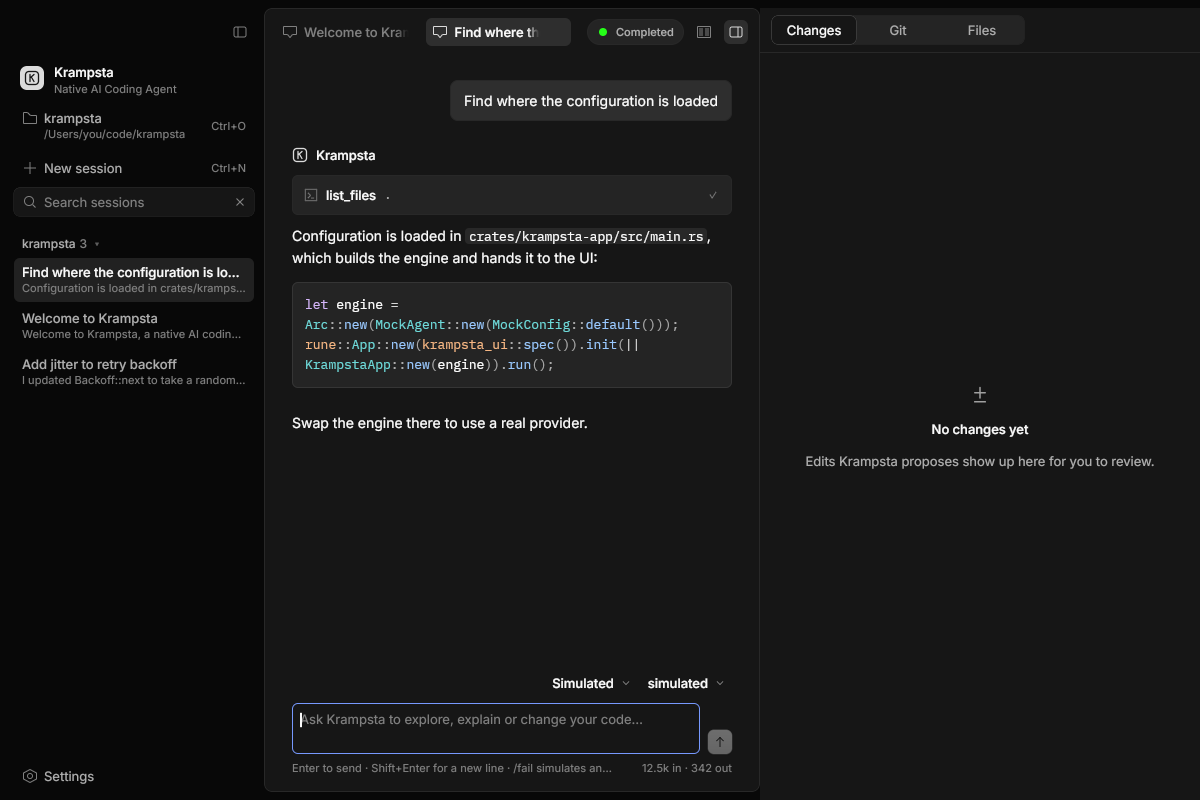
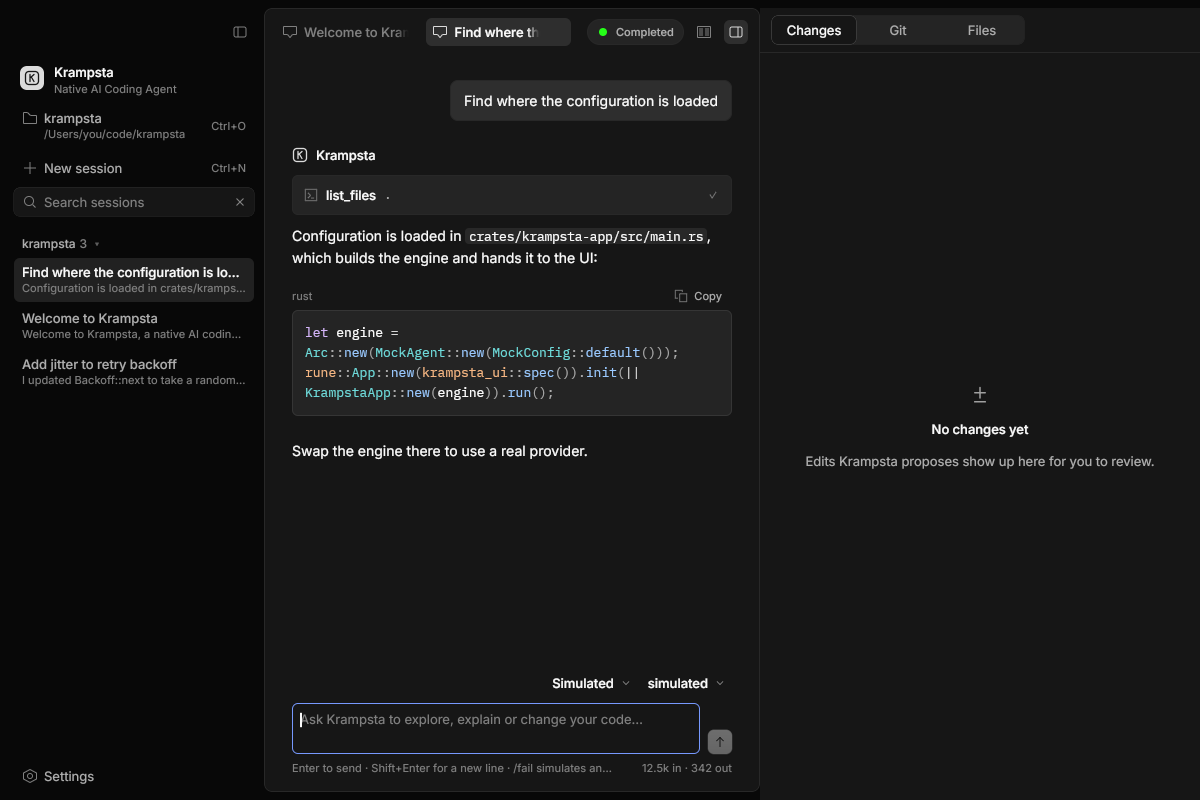
Copy a code block from a reply with one click
Each code block in the agent's replies gets a strip above it (through
rune-kit's Markdown::code_frame) with its language and a Copy button. A
click puts the block's code on the clipboard, as written, and the button
says "Copied" until another block is copied or a message is sent. A block
still streaming in already has its strip, without the button, so nothing
jumps when it ends. Only replies with a fence pay for the extra frame.

New code-copied scene; the stills with a code block show the strip.

Changed region(s): [[0.2467, 0.375, 0.555, 0.5938], [0.555, 0.3438, 0.6167, 0.375]]

diff --git a/crates/krampsta-ui/tests/code_copy.rs b/crates/krampsta-ui/tests/code_copy.rs
@@ -1,0 +1,51 @@
+#![allow(clippy::unwrap_used, clippy::expect_used)]
+
+//! The Copy button on a reply's code block: a click puts the block's code on the clipboard and
+//! the button says so.
+
+use std::sync::Arc;
+
+use krampsta_agent::{MockCatalog, MockConfig};
+use krampsta_core::{MessageRole, Session, SessionId};
+use krampsta_ui::{KrampstaApp, app, keys};
+use rune::{Env, Runtime};
+
+fn settle(rt: &mut Runtime<KrampstaApp>) {
+    for _ in 0..60 {
+        rt.frame(1.0 / 60.0);
+    }
+}
+
+#[test]
+fn a_click_copies_the_blocks_code_and_the_button_says_so() {
+    let mut state = KrampstaApp::new(Arc::new(MockCatalog::new(MockConfig::instant())));
+    let mut session = Session::with_title(SessionId(7), "Show me main");
+    session.push_message(MessageRole::User, "Show me main");
+    let reply = session.push_message(
+        MessageRole::Assistant,
+        "Here it is:\n\n```rust\nfn main() {\n    println!(\"hi\");\n}\n```\n\nAnd the test:\n\n```sh\ncargo test\n```\n",
+    );
+    state.sessions.insert(0, session);
+    state.select(SessionId(7));
+    let mut rt = Runtime::new(state, app::view, (1200.0, 800.0), Env::new(true, 1.0));
+    let clipboard = rune::clipboard::memory();
+    rt.use_clipboard(&clipboard);
+    settle(&mut rt);
+    assert!(rt.find(&keys::code_copy(reply, 0)).is_some() && rt.find(&keys::code_copy(reply, 1)).is_some());
+
+    let (x, y) = rt.find(&keys::code_copy(reply, 1)).unwrap();
+    rt.pointer_down(x, y);
+    rt.pointer_up(x, y);
+    settle(&mut rt);
+    let copied = clipboard.text().map(|t| t.to_string()).unwrap_or_default();
+    assert_eq!(copied.trim_end(), "cargo test", "the second block's code, as written");
+    assert_eq!(rt.state.copied_code, Some((reply, 1)), "its button says Copied");
+
+    let (x, y) = rt.find(&keys::code_copy(reply, 0)).unwrap();
+    rt.pointer_down(x, y);
+    rt.pointer_up(x, y);
+    settle(&mut rt);
+    let copied = clipboard.text().map(|t| t.to_string()).unwrap_or_default();
+    assert!(copied.starts_with("fn main() {") && copied.contains("println!(\"hi\");"), "{copied}");
+    assert_eq!(rt.state.copied_code, Some((reply, 0)), "only the last one says so");
+}

diff --git a/crates/krampsta-ui/src/components/code_copy.rs b/crates/krampsta-ui/src/components/code_copy.rs
@@ -1,0 +1,43 @@
+//! A Copy button on each code block of the agent's replies (through rune-kit's
+//! `Markdown::code_frame`): a strip above the block with its language and the button. The
+//! button copies the block's code as written and says "Copied" until another block is copied
+//! or a message is sent. A block still arriving gets no button: half a block isn't worth copying.
+
+use krampsta_core::MessageId;
+use rune::{El, Tx, col, row, text};
+use rune_kit::markdown::CodeFrame;
+use rune_kit::{Button, ButtonVariant, ControlSize, Kit};
+
+use crate::components::icons;
+use crate::keys;
+use crate::state::KrampstaApp;
+
+impl KrampstaApp {
+    /// Copies block `index` of `message` (its code is `code`) and marks it copied.
+    pub fn copy_code(&mut self, message: MessageId, index: usize, code: &str, tx: &mut Tx) {
+        tx.copy(code.to_owned());
+        self.copied_code = Some((message, index));
+    }
+}
+
+/// `card` (a code block) with its strip. `copied`: the block of this message copied last, if any.
+pub fn frame(card: El, c: &CodeFrame<'_>, message: MessageId, copied: Option<usize>, k: &Kit) -> El {
+    let language = text(c.language.unwrap_or_default().to_owned()).font(k.ty.small).color(k.c.text_faint);
+    let strip = row().w_full().h(28.0).items_center().justify_between().child(language);
+    // A block still arriving has its strip already (nothing jumps when it ends), but no button.
+    if c.open {
+        return col().w_full().child(strip).child(card);
+    }
+    let index = c.index;
+    let done = copied == Some(index);
+    let code = c.source.to_owned();
+    let button = Button::new(if done { "Copied" } else { "Copy" })
+        .icon(if done { &icons::CHECK } else { &icons::COPY })
+        .variant(ButtonVariant::GhostMuted)
+        .control_size(ControlSize::Small)
+        .on_press_tx(move |s: &mut KrampstaApp, tx: &mut Tx| s.copy_code(message, index, &code, tx))
+        .build(k)
+        .key(keys::code_copy(message, index))
+        .label("Copy the code");
+    col().w_full().child(strip.child(button)).child(card)
+}

diff --git a/crates/krampsta-ui/src/components/message.rs b/crates/krampsta-ui/src/components/message.rs
@@ -5,7 +5,7 @@ use krampsta_core::{Message, MessageRole, SessionId};
 use rune::{El, col, el, icon, row, text};
 use rune_kit::{Kit, Markdown, Spinner};
 
-use crate::components::{icons, reasoning, shimmer, tool_card};
+use crate::components::{code_copy, icons, reasoning, shimmer, tool_card};
 use crate::images::MessageImage;
 use crate::keys;
 use crate::state::KrampstaApp;
@@ -86,7 +86,13 @@ fn assistant(s: &KrampstaApp, session: SessionId, m: &Message, streaming: bool, 
         }
     } else {
         // Each word fades in as it comes out; a finished message mounts whole.
-        let body = Markdown::new(shown.to_owned()).streaming(streaming).reveal(theme::WORD_FADE).selectable(true);
+        let mut body = Markdown::new(shown.to_owned()).streaming(streaming).reveal(theme::WORD_FADE).selectable(true);
+        // A Copy button on each code block; only replies that have one pay for the kit's copy.
+        if shown.contains("```") {
+            let (id, kit) = (m.id, std::rc::Rc::new(k.clone()));
+            let copied = s.copied_code.filter(|(message, _)| *message == id).map(|(_, index)| index);
+            body = body.code_frame(move |card, c| code_copy::frame(card, c, id, copied, &kit));
+        }
         out = out.child(body.build(k));
     }
     out

diff --git a/crates/krampsta-ui/src/state.rs b/crates/krampsta-ui/src/state.rs
@@ -121,6 +121,8 @@ pub struct KrampstaApp {
     pub repo: crate::git::RepoView,
     /// The project's files, as the "Files" view shows them.
     pub files: crate::files::ProjectTree,
+    /// The code block copied last (its message and place), whose button says "Copied".
+    pub copied_code: Option<(MessageId, usize)>,
     /// The command palette (Ctrl+K).
     pub palette: crate::palette::Palette,
     /// The sidebar's search: its query and the sessions it matches.
@@ -278,6 +280,7 @@ impl KrampstaApp {
             inspector: crate::files::Inspector::default(),
             files: crate::files::ProjectTree::default(),
             repo: crate::git::RepoView::default(),
+            copied_code: None,
             palette: crate::palette::Palette::default(),
             search: crate::search::SessionSearch::default(),
             renaming: crate::rename::Renaming::default(),
@@ -403,6 +406,7 @@ impl KrampstaApp {
         let request =
             RunRequest { session: id, run, history: session.messages.clone(), effort: self.engine.effort.clone() };
         self.sent_attachment(id, run, message, text);
+        self.copied_code = None;
         self.view_mut(id).draft = TextEdit::new("");
         self.focus_composer(id);
         self.notice = None;

diff --git a/crates/krampsta-ui/src/app.rs b/crates/krampsta-ui/src/app.rs
@@ -339,6 +339,15 @@ const SCENES: &[Scene] = &[
     ("search", crate::search::scene),
     // The command palette (Ctrl+K), a letter typed.
     ("palette", crate::palette::scene),
+    // A reply's code block just copied: its button says so.
+    ("code-copied", |s| {
+        scene_completed(s);
+        let reply = s
+            .sessions
+            .first()
+            .and_then(|x| x.messages.iter().rev().find(|m| m.role == krampsta_core::MessageRole::Assistant));
+        s.copied_code = reply.map(|m| (m.id, 0));
+    }),
     ("files", crate::files::scene),
     // The "Git" view: the example changes, written and not committed yet, and a binary file.
     ("git", crate::git::scene),

diff --git a/crates/krampsta-ui/src/keys.rs b/crates/krampsta-ui/src/keys.rs
@@ -252,3 +252,8 @@ pub const PALETTE_EMPTY: &str = "krampsta-palette-empty";
 pub fn palette_item(index: usize) -> String {
     format!("krampsta-palette-item-{index}")
 }
+
+/// A code block's Copy button, in a message.
+pub fn code_copy(message: krampsta_core::MessageId, index: usize) -> String {
+    format!("krampsta-code-copy-{message}-{index}")
+}

diff --git a/crates/krampsta-ui/src/components/mod.rs b/crates/krampsta-ui/src/components/mod.rs
@@ -1,6 +1,7 @@
 //! Small reusable pieces of Krampsta's interface.
 
 pub mod alert;
+pub mod code_copy;
 pub mod composer;
 pub mod empty;
 pub mod engine_picker;

diff --git a/.claude/skills/verify-ui/SKILL.md b/.claude/skills/verify-ui/SKILL.md
@@ -32,7 +32,7 @@ bash scripts/snapshots.sh
 Escribe en `assets/screenshots/`: `krampsta` (estado inicial), `empty`, `changes-empty` (panel de cambios vacío), `changes` y `change-failed` (cambios propuestos con Accept/Reject por archivo y por bloque, y una escritura fallida), `command` (comando en marcha con su salida en directo), `approval` (diálogo para permitir un comando), `approval-mcp` (el mismo para una herramienta de un servidor MCP), `running`, `tools`
 (tarjetas de herramienta: abierta, fallida y en curso), `thinking` y `reasoning` (razonamiento
 mientras piensa y abierto al terminar), `completed`,
-`failed`, `cancelled`, `settings`, `api-key` y `api-key-saved` (clave de OpenAI escrita y guardada), `signed-in`, `sign-in` (diálogo con el código), `sign-in-failed` (el fallo, con «Try again»), `session-menu` (ahora con «Rename»), `rename` (una sesión renombrándose en su fila), `search` (la sidebar buscando una palabra), `palette` (la paleta de comandos con una letra escrita), `message-menu` y `delete-session` (menús contextuales y la confirmación de borrado), `light`,
+`failed`, `cancelled`, `settings`, `api-key` y `api-key-saved` (clave de OpenAI escrita y guardada), `signed-in`, `sign-in` (diálogo con el código), `sign-in-failed` (el fallo, con «Try again»), `session-menu` (ahora con «Rename»), `rename` (una sesión renombrándose en su fila), `search` (la sidebar buscando una palabra), `palette` (la paleta de comandos con una letra escrita), `code-copied` (el botón de un bloque de código tras copiarlo), `message-menu` y `delete-session` (menús contextuales y la confirmación de borrado), `light`,
 `provider-picker`, `effort-picker` (esfuerzo de razonamiento, con ChatGPT), `model-picker`, `model-error`
 (selectores abiertos y servidor local caído), `fresh` (primer arranque: una sesión vacía, sin ejemplos), `split` (dos sesiones lado a lado), `edit` (el diff de un `edit_file` en su tarjeta), `image` (un mensaje con captura y otra adjunta al borrador), `projects` (sesiones de tres proyectos, una plegada), `cost` (coste en la barra) y `prices` (precios por modelo en ajustes), `mcp-servers` (un servidor MCP en cada estado, en ajustes), `mcp-add` (1200×1200: el formulario para añadir uno y la confirmación de quitar otro), `files` (la vista «Files» del panel derecho, con cambios propuestos marcados), `git` (la vista «Git»: cambios sin confirmar y un binario sólo nombrado), `no-project` y `opening-project` (fila del proyecto sin carpeta y abriendo otra), `narrow` (800×560) y `send-message` (script real:
 escribe en el composer y pulsa Enter), más `krampsta-tree.json` (árbol de elementos, no versionado).

diff --git a/AGENTS.md b/AGENTS.md
@@ -57,6 +57,8 @@ Lee `README.md` primero. Este archivo recoge las reglas para seguir desarrollán
   sesiones por `Session::project`, y una sesión sin proyecto adopta el abierto al enviar),
   `prefs.rs` (ajustes entre arranques: tema, anchos, proveedor y modelo, proyecto, grupos
   plegados; `poll` compara sin asignar y guarda medio segundo después de que paren de cambiar),
+  `components/code_copy.rs` (el botón Copy de cada bloque de código de una respuesta, por
+  `Markdown::code_frame`; un bloque que aún llega lleva la franja sin botón, para que nada salte),
   `components/inline_diff.rs` (el cambio de un `edit_file` dentro de su tarjeta: diff compacto
   de sólo lectura; `ChangeProposed` lleva el `call` y `pump` guarda su `FileDiff` en `card_diffs`),
   `panes.rs` (dos sesiones lado a lado: `split` guarda la del otro panel; la seleccionada es

diff --git a/README.md b/README.md
@@ -21,7 +21,8 @@ la renderiza Rune en la GPU (wgpu) en macOS, Windows y Linux.
   (o «Rename» en su menú) la renombra en el sitio: Enter guarda, Escape cancela. El campo de
   búsqueda (`Ctrl+Shift+F`) filtra la lista por título y por el texto de los mensajes.
 - **Panel principal**: título de la sesión, historial (usuario a la derecha, Krampsta a la
-  izquierda con Markdown y bloques de código coloreados), indicador de estado del agente
+  izquierda con Markdown y bloques de código coloreados, cada uno con su botón **Copy**), indicador
+  de estado del agente
   (`Idle`, `Running`, `Completed`, `Failed`, `Cancelled`) y *composer* que crece con el texto.
   Una imagen pegada (`Ctrl+V`, PNG de hasta 5 MiB y 24 megapíxeles) se adjunta al mensaje;
   sólo la envían los proveedores que leen imágenes (hoy, ChatGPT) y se guarda con el historial,
